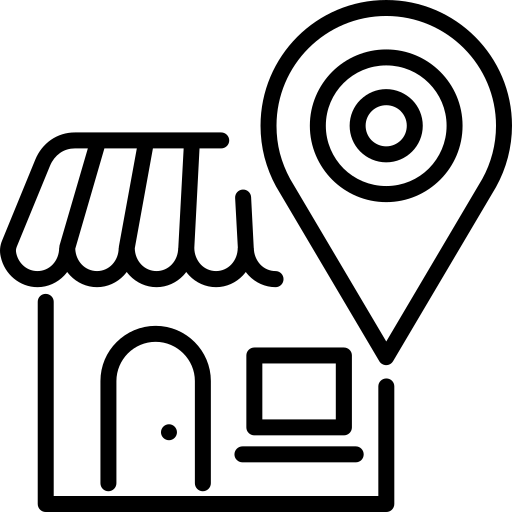
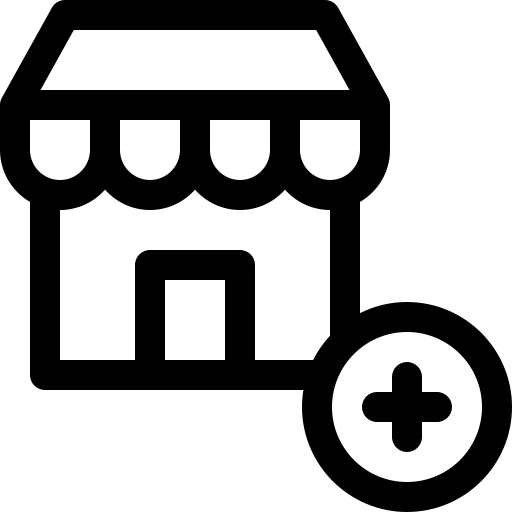
add visited stores

diff --git a/services/pdfService.js b/services/pdfService.js
@@ -1,7 +1,7 @@
 import { printToFileAsync } from 'expo-print';
 import { shareAsync } from 'expo-sharing';
 
-const generateOrderPDF = async (order) => {
+export const generateOrderPDF = async (order) => {
   if (!order || !order.products || Object.keys(order.products).length === 0) {
     console.error('Order or products data is missing.');
     return;
@@ -17,7 +17,7 @@ const generateOrderPDF = async (order) => {
             margin: 0;
             padding: 20px;
             color: #333;
-            direction: rtl; /* للتنسيق من اليمين إلى اليسار */
+            direction: rtl;
           }
           .container {
             max-width: 800px;
@@ -32,9 +32,9 @@ const generateOrderPDF = async (order) => {
             margin-bottom: 30px;
           }
           .header img {
-            max-width: 100px; /* حجم الشعار */
+            max-width: 100px;
             margin-bottom: 20px;
-            border-radius: 50%; /* يجعل الصورة دائرية */
+            border-radius: 50%;
           }
           .header h1 {
             margin: 0;
@@ -155,4 +155,94 @@ const generateOrderPDF = async (order) => {
   }
 };
 
-export { generateOrderPDF };
+// دالة لإنشاء ملف PDF يحتوي على المحلات التي تمت زيارتها اليوم
+export const generateVisitedStoresPDF = async (stores) => {
+  // فلترة المحلات التي تمت زيارتها اليوم
+  const today = new Date().toDateString();
+  const todayStores = stores.filter(store => new Date(store.visitTime).toDateString() === today);
+  const currentDate = new Date().toLocaleDateString('he-EG', { year: 'numeric', month: 'numeric', day: 'numeric' });
+
+  const html = `
+    <html lang="he">
+      <head>
+        <link href="https://fonts.googleapis.com/css2?family=Heebo:wght@100;400;700&display=swap" rel="stylesheet">
+        <style>
+          body {
+            font-family: 'Heebo', sans-serif;
+            margin: 20px;
+            padding: 20px;
+            color: #333;
+            direction: rtl;
+          }
+          .container {
+            max-width: 800px;
+            margin: 0 auto;
+            padding: 20px;
+            border: 1px solid #ddd;
+            border-radius: 10px;
+            background-color: #f9f9f9;
+          }
+          h1 {
+            text-align: center;
+            color: #0056b3;
+            font-size: 32px;
+          }
+          h2 {
+            text-align: center;
+            color: #333;
+            font-size: 24px;
+            margin-bottom: 40px;
+          }
+          table {
+            width: 100%;
+            border-collapse: collapse;
+            margin-top: 20px;
+          }
+          th, td {
+            border: 1px solid #ddd;
+            padding: 8px;
+            text-align: right;
+          }
+          th {
+            background-color: #0056b3;
+            color: white;
+          }
+        </style>
+      </head>
+      <body>
+        <div class="container">
+          <h1>דוח יומי לחנויות שבוקרו</h1>
+          <h2>${currentDate}</h2>
+          <table>
+            <thead>
+              <tr>
+                <th>שם העסק </th>
+                <th>כתובת</th>
+                <th> זמן ביקור</th>
+              </tr>
+            </thead>
+            <tbody>
+              ${todayStores.map(store => `
+                <tr>
+                  <td>${store.name}</td>
+                  <td>${store.address}</td>
+                  <td>${new Date(store.visitTime).toLocaleTimeString()}</td>
+                </tr>
+              `).join('')}
+            </tbody>
+          </table>
+        </div>
+      </body>
+    </html>
+  `;
+
+  try {
+    const file = await printToFileAsync({
+      html: html,
+      base64: false
+    });
+    await shareAsync(file.uri);
+  } catch (error) {
+    console.error('Error creating PDF:', error);
+  }
+};

diff --git a/screens/VisetedStores.js b/screens/VisetedStores.js
@@ -1,0 +1,83 @@
+import React, { useState, useEffect } from 'react';
+import { View, Text, StyleSheet, ScrollView, TouchableOpacity } from 'react-native';
+import StoreCard from '../components/StoreCard';
+import { fetchStores } from '../services/dbFunctions';
+import { generateVisitedStoresPDF } from '../services/pdfService';
+import SafeAreaWrapper from '../components/SafeAreaWrapper';
+
+
+const VisetedStores = () => {
+  const [stores, setStores] = useState([]);
+
+  useEffect(() => {
+    const getStores = async () => {
+      const fetchedStores = await fetchStores();
+      setStores(fetchedStores);
+    };
+
+    getStores();
+  }, []);
+
+  const handleCreatePDF = () => {
+    generateVisitedStoresPDF(stores);
+  };
+
+  return (
+    <SafeAreaWrapper barStyle="dark-content"> 
+
+    <View style={styles.container}>
+      <View style={styles.headerContainer}>
+        <TouchableOpacity style={styles.button} onPress={handleCreatePDF}>
+          <Text style={styles.buttonText}>צור דוח יומי</Text>
+        </TouchableOpacity>
+                <Text style={styles.header}>החנויות שבוקרו</Text>
+
+      </View>
+      <ScrollView contentContainerStyle={styles.scrollContainer}>
+        {stores.map((store, index) => (
+          <StoreCard key={index} store={store} />
+        ))}
+      </ScrollView>
+    </View>
+    </SafeAreaWrapper>
+  );
+}
+
+const styles = StyleSheet.create({
+  container: {
+    flex: 1,
+    backgroundColor: '#f2f2f2',
+  },
+  headerContainer: {
+    paddingVertical: 20,
+    paddingHorizontal: 15,
+    backgroundColor: '#6200EE',
+    flexDirection: 'row',
+    justifyContent: 'space-between',
+    alignItems: 'center',
+    elevation: 5,  // Adding shadow for elevation
+  },
+  header: {
+    fontSize: 24,
+    fontFamily: 'Heebo-Bold',
+    color: '#ffffff',
+  },
+  button: {
+    backgroundColor: '#ffffff',
+    paddingVertical: 10,
+    paddingHorizontal: 20,
+    borderRadius: 5,
+    elevation: 2,
+  },
+  buttonText: {
+    fontSize: 16,
+    fontFamily: 'Heebo-Bold',
+    color: '#6200EE',
+  },
+  scrollContainer: {
+    paddingHorizontal: 15,
+    paddingVertical: 10,
+  },
+});
+
+export default VisetedStores;

diff --git a/components/StoreCard.js b/components/StoreCard.js
@@ -1,0 +1,63 @@
+import { View, Text, StyleSheet } from 'react-native';
+import React from 'react';
+
+const StoreCard = ({ store }) => {
+  const formatVisitTime = (visitTime) => {
+    if (typeof visitTime === 'string') {
+      return new Date(visitTime).toLocaleString();
+    } else if (typeof visitTime === 'object' && visitTime.seconds) {
+      const date = new Date(visitTime.seconds * 1000);
+      return date.toLocaleString();
+    }
+    return 'Unknown date';
+  };
+
+  return (
+    <View style={styles.card}>
+      <Text style={styles.title}>{store.name}</Text>
+      <Text style={styles.address}>{store.address}</Text>
+      <Text style={styles.time}>ביקר ב: {formatVisitTime(store.visitTime)}</Text>
+    </View>
+  );
+}
+
+const styles = StyleSheet.create({
+  card: {
+    backgroundColor: '#fff',
+    padding: 20,
+    marginVertical: 10,
+    marginHorizontal: 20,
+    borderRadius: 10,
+    shadowColor: '#000',
+    shadowOffset: { width: 0, height: 2 },
+    shadowOpacity: 0.1,
+    shadowRadius: 5,
+    elevation: 3,
+    borderLeftWidth: 5,
+    borderLeftColor: '#100ea0',
+    direction: 'rtl',  // تحديد اتجاه النصوص من اليمين لليسار
+  },
+  title: {
+    fontSize: 20,
+    fontFamily: 'Heebo-Bold',
+    marginBottom: 5,
+    color: '#333',
+    textAlign: 'left', // محاذاة النص إلى اليمين
+  },
+  address: {
+    fontSize: 16,
+    color: '#555',
+    fontFamily: 'Heebo-Regular',
+    marginBottom: 10,
+    textAlign: 'left', // محاذاة النص إلى اليمين
+  },
+  time: {
+    fontSize: 14,
+    color: '#888',
+    textAlign: 'left', // محاذاة النص إلى اليمين
+    fontFamily: 'Heebo-Bold',
+
+  },
+});
+
+export default StoreCard;

diff --git a/screens/Home.js b/screens/Home.js
@@ -37,6 +37,10 @@ const Home = ({ route }) => {
     navigation.navigate('AddStore');
   };
 
+  const handleVisitedStoresPress = () => {
+    navigation.navigate('VisitedStores');
+  };
+
   return (
     <SafeAreaWrapper barStyle="light-content" backgroundColor="#100ea0">
       <View style={styles.container}>
@@ -52,6 +56,10 @@ const Home = ({ route }) => {
             <Image source={require('../assets/add-store.png')} style={styles.icon} />
             <Text style={styles.cardText}>הוסף חנות שביקרת</Text>
           </TouchableOpacity>
+          <TouchableOpacity style={styles.card} onPress={handleVisitedStoresPress}>
+            <Image source={require('../assets/visited-stores.png')} style={styles.icon} />
+            <Text style={styles.cardText}> רשימת החנויות שביקרתי</Text>
+          </TouchableOpacity>
         </View>
       </View>
     </SafeAreaWrapper>
@@ -65,6 +73,7 @@ const styles = StyleSheet.create({
     alignItems: 'center',
     backgroundColor: '#100ea0',
     paddingHorizontal: 20,
+    
   },
   logo: {
     width: 250,

diff --git a/app/index.tsx b/app/index.tsx
@@ -5,6 +5,7 @@ import Signup from '../screens/Signup';
 import NewOrder from '../screens/NewOrder';
 import AddStore  from '../screens/AddStore';
 import Login from '../screens/Login';
+import VisitedStores from '../screens/VisetedStores'
 
 
 import { useFonts } from 'expo-font';
@@ -34,8 +35,7 @@ export default function index() {
         <Stack.Screen name="AddStore" component={AddStore} options={{ headerShown: false }} />
         <Stack.Screen name="Login" component={Login} options={{ headerShown: false }}/>
         <Stack.Screen name="Signup" component={Signup} options={{ headerShown: false }}/>
-
-      
+        <Stack.Screen name="VisitedStores" component={VisitedStores} options={{ headerShown: false }}/>
 
     </Stack.Navigator>
 

diff --git a/services/dbFunctions.js b/services/dbFunctions.js
@@ -21,6 +21,21 @@ export const fetchProducts = async () => {
   }
 };
 
+export const fetchStores = async () => {
+  try {
+    const storesCollection = collection(db, 'stores');
+    const storesSnapshot = await getDocs(storesCollection);
+    const storesList = storesSnapshot.docs.map(doc => ({
+      id: doc.id,
+      ...doc.data(),
+    }));
+    return storesList;
+  } catch (error) {
+    console.error('Error fetching stores:', error);
+    return [];
+  }
+};
+
 export const saveOrder = async (order) => {
   try {
     // إنشاء PDF وحفظه
